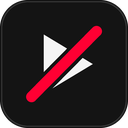
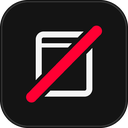
Generalize into Distraction Blocker and block Substack

diff --git a/blocked.css b/blocked.css
@@ -1,0 +1,150 @@
+:root {
+  color-scheme: dark;
+  --bg: #09090b;
+  --text: #f4f1eb;
+  --muted: #8d8982;
+  --dim: #5d5a55;
+  --red: #ff2d4b;
+  --frame: rgb(244 241 235 / 7%);
+}
+
+* {
+  box-sizing: border-box;
+}
+
+html,
+body {
+  min-height: 100%;
+  margin: 0;
+}
+
+body {
+  position: relative;
+  min-height: 100vh;
+  display: grid;
+  place-items: center;
+  padding: 56px 24px;
+  overflow: hidden;
+  background:
+    radial-gradient(900px 560px at 50% -8%, rgb(255 45 75 / 8%), transparent 70%),
+    var(--bg);
+  color: var(--text);
+  font-family: Roboto, "Segoe UI", Arial, sans-serif;
+}
+
+/* A hairline frame keeps the page feeling composed without adding a card. */
+body::before {
+  content: "";
+  position: fixed;
+  inset: 18px;
+  border: 1px solid var(--frame);
+  pointer-events: none;
+}
+
+.block {
+  width: min(1040px, 100%);
+  text-align: center;
+}
+
+.eyebrow {
+  display: inline-flex;
+  align-items: center;
+  gap: 10px;
+  margin: 0 0 34px;
+  color: var(--muted);
+  font-size: 10px;
+  font-weight: 600;
+  letter-spacing: 0.24em;
+  text-transform: uppercase;
+}
+
+.eyebrow::before {
+  content: "";
+  width: 5px;
+  height: 5px;
+  border-radius: 50%;
+  background: var(--red);
+  box-shadow: 0 0 12px rgb(255 45 75 / 55%);
+}
+
+h1 {
+  margin: 0 auto 30px;
+  font-family: Georgia, "Times New Roman", serif;
+  font-size: clamp(44px, 6.4vw, 82px);
+  font-weight: 400;
+  letter-spacing: -0.045em;
+  line-height: 1.02;
+  text-wrap: balance;
+}
+
+.message {
+  margin: 0 auto;
+  color: var(--muted);
+  font-size: 15px;
+  line-height: 1.8;
+}
+
+.status {
+  margin: 54px 0 0;
+  color: var(--dim);
+  font-size: 10px;
+  font-weight: 600;
+  letter-spacing: 0.16em;
+  text-transform: uppercase;
+}
+
+@media (prefers-reduced-motion: no-preference) {
+  .block > * {
+    animation: settle 600ms cubic-bezier(0.2, 0.75, 0.25, 1) both;
+  }
+
+  .block > :nth-child(2) {
+    animation-delay: 60ms;
+  }
+
+  .block > :nth-child(3) {
+    animation-delay: 120ms;
+  }
+
+  .block > :nth-child(4) {
+    animation-delay: 180ms;
+  }
+
+  @keyframes settle {
+    from {
+      opacity: 0;
+      transform: translateY(8px);
+    }
+
+    to {
+      opacity: 1;
+      transform: translateY(0);
+    }
+  }
+}
+
+@media (max-width: 560px) {
+  body {
+    padding: 40px 22px;
+  }
+
+  body::before {
+    inset: 10px;
+  }
+
+  .eyebrow {
+    margin-bottom: 28px;
+  }
+
+  h1 {
+    font-size: clamp(38px, 11vw, 56px);
+  }
+
+  .message {
+    font-size: 14px;
+  }
+
+  .status {
+    margin-top: 42px;
+  }
+}

diff --git a/blocked.html b/blocked.html
@@ -1,0 +1,22 @@
+<!doctype html>
+<html lang="en">
+  <head>
+    <meta charset="utf-8">
+    <meta name="viewport" content="width=device-width, initial-scale=1">
+    <meta name="color-scheme" content="dark">
+    <title>Substack has been blocked</title>
+    <link rel="icon" href="icons/icon32.png">
+    <link rel="stylesheet" href="blocked.css">
+  </head>
+  <body>
+    <main class="block">
+      <p class="eyebrow">Distraction Blocker</p>
+      <h1>Substack has been blocked.</h1>
+      <p class="message">
+        This site is on your blocklist.<br>
+        Close this tab and return to what matters.
+      </p>
+      <p class="status">Always on. No toggle.</p>
+    </main>
+  </body>
+</html>

diff --git a/README.md b/README.md
@@ -1,19 +1,15 @@
-# YouTube Sidebar Blocker
+# Distraction Blocker
 
-A deliberately minimal Chrome extension that removes the right-hand sidebar from YouTube watch pages.
+A deliberately minimal Chrome extension for cutting distracting sites out of your browser.
 
 **Always on. No popup, no toggle, no badge, no settings. No mercy.**
 
-## What it does
+## What it blocks
 
-- Removes the **entire right-hand column** on YouTube video pages, including:
-  - recommended videos / "Up next"
-  - live chat
-  - the playlist panel
-  - transcript and other side panels
-- Collapses the empty column and lets the player use the freed space.
-- Leaves the home page, search results, subscriptions, comments, and the player untouched.
-- Works with YouTube's single-page navigation; no page refresh needed after the first load.
+- **Substack** — `substack.com` and every subdomain are redirected to a local block screen that says **“Substack has been blocked.”**
+- **YouTube recommendations** — the entire right-hand column is removed on video watch pages, including recommended videos, live chat, playlists, and transcripts.
+
+Home pages, search results, subscriptions, comments, and the video player on YouTube are left alone.
 
 ## Install
 
@@ -22,29 +18,41 @@ A deliberately minimal Chrome extension that removes the right-hand sidebar from
 3. Turn on **Developer mode** (top-right).
 4. Click **Load unpacked**.
 5. Select the folder containing this README.
-6. Open any YouTube video. The right-hand sidebar will not appear.
+6. Open any YouTube video, or try visiting Substack.
 
 If a YouTube tab was already open while you installed the extension, refresh that tab once.
 
-## Updating from the previous version
+## How it works
 
-The toggle and popup have been removed. On `chrome://extensions`, click the reload button on the extension card. The extension is now always active whenever it is enabled in Chrome.
+- `rules.json` contains a `declarativeNetRequest` rule that redirects Substack navigations to the extension's own `blocked.html` page. The site itself never gets a chance to render.
+- `content.css` removes the right-hand sidebar from YouTube watch pages.
+- There is no JavaScript running on blocked sites, no background worker, and no saved state.
+
+## Adding another site
+
+1. Add another rule to `rules.json`, following the Substack example. Change the `id` and the `urlFilter` (for example, `||example.com^`).
+2. Add the domain to `host_permissions` in `manifest.json`.
+3. Reload the extension on `chrome://extensions`.
+
+The current block screen names Substack specifically. To use a different site name, copy `blocked.html` and `blocked.css` or make the message generic.
 
 ## Turning it off
 
-There is no in-extension switch. To disable it, use **Remove** or the on/off switch for the extension on `chrome://extensions`. That is the only off switch.
+There is no in-extension switch. To disable it, use the on/off switch for the extension on `chrome://extensions`, or remove it entirely. That is the only off switch.
 
 ## Files
 
 | File | Purpose |
 | --- | --- |
 | `manifest.json` | Chrome extension manifest (Manifest V3) |
-| `content.css` | The selectors that remove the right sidebar |
+| `rules.json` | The site blocklist |
+| `blocked.html` / `blocked.css` | The local “Substack has been blocked” screen |
+| `content.css` | Removes YouTube's right sidebar |
 | `icons/` | Extension icons |
 
 ## Notes
 
-- The extension only matches `https://www.youtube.com/*` and `https://youtube.com/*`.
-- It requests no permissions, stores no settings, and collects no data.
+- The extension requests host access to Substack so it can intercept those navigations.
+- It collects no data and makes no external requests.
 - It does not hide the YouTube home feed, Shorts, or end-screen suggestions; its scope is the right-hand column on video pages.
-- If you edit the files, click the reload button for the extension on `chrome://extensions` and refresh any open YouTube tabs.
+- If you edit the files, click the reload button for the extension on `chrome://extensions` and refresh any open tabs.
